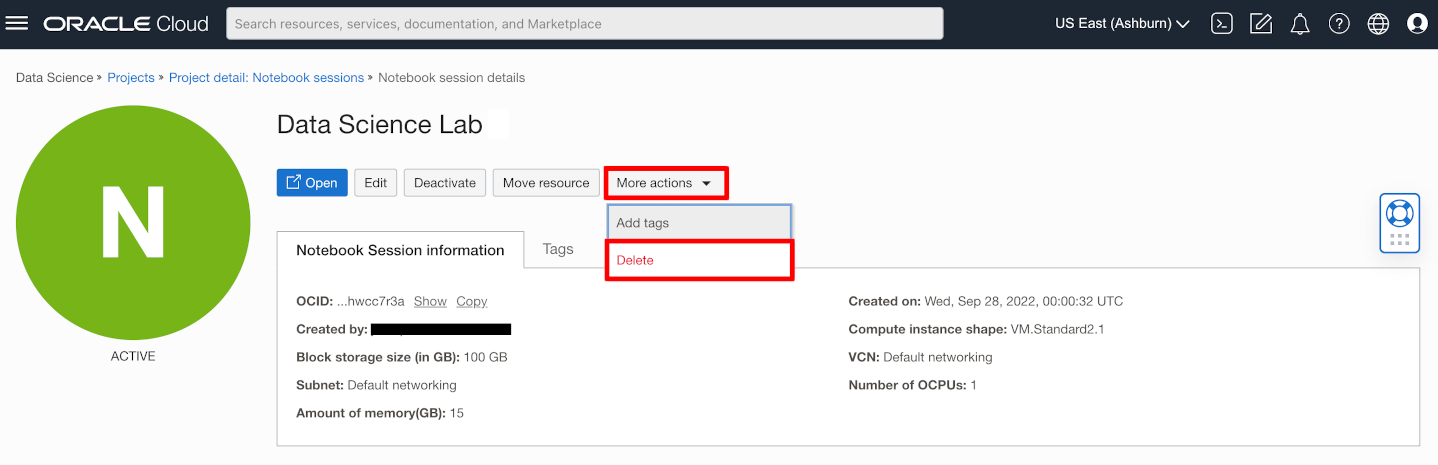
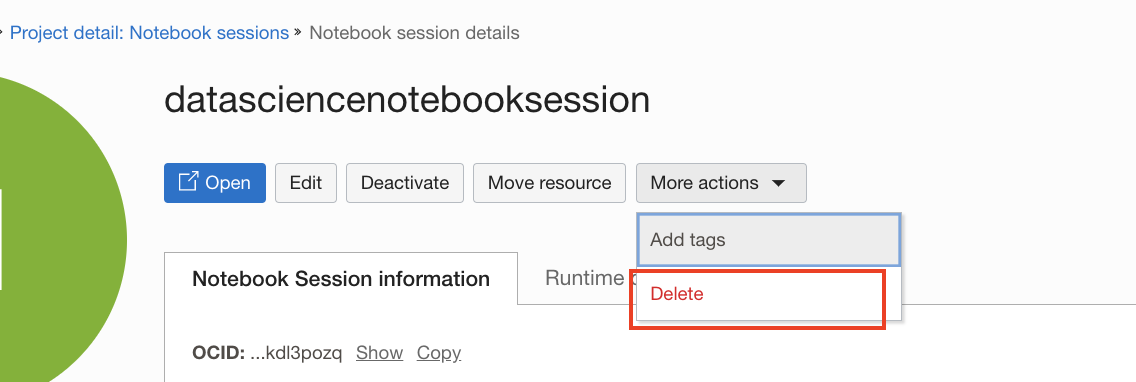
WMS ID#11267 - Image Classification and Deep Learning with OCI Data Science  (#54)
* Update images in common folder

* Update text in image-classification markdowon

* Fix text in image-classification markdown

* JP changes

* Upadte orm-solution-hub-setup markdown and move project-notebook-setup-free-tier markdown to common folder

* Move project-notebook-setup-image-classification-lab markdown

* Move project-notebook-setup-image-classification-lab markdown

* Remove tags

* Resolve conflict

* Add in changes following self QA

* Fix grammar mistakes

* Add in edits from ES

* Add in CW changes

* Reorganize folder structure

diff --git a/oci-datascience/image-classification/workshops/ocw-22-freetier/index.html b/oci-datascience/image-classification/workshops/ocw-22-freetier/index.html
@@ -1,0 +1,63 @@
+<!DOCTYPE html>
+<html lang="en">
+
+<head>
+    <meta charset="utf-8">
+    <meta http-equiv="X-UA-Compatible" content="IE=edge">
+    <meta name="viewport" content="width=device-width, initial-scale=1">
+    <meta name="description" content="Oracle LiveLabs gives you access to Oracle's products to run a wide variety of labs and workshops; allowing you to experience our best technology, live!">
+    <title>Oracle LiveLabs</title>
+
+    <script src="https://oracle-livelabs.github.io/common/redwood-hol/js/jquery-1.11.0.min.js"></script>
+    <script src="https://oracle-livelabs.github.io/common/redwood-hol/js/jquery-ui-1.10.4.custom.js"></script>
+    <script src="https://oracle-livelabs.github.io/common/redwood-hol/js/main.min.js"></script>
+    
+
+    <link rel="stylesheet" href="https://oracle-livelabs.github.io/common/redwood-hol/css/style.min.css" />
+    <link rel="shortcut icon" href="https://oracle-livelabs.github.io/common/redwood-hol/img/favicon.ico" />
+</head>
+
+<body>
+    <header class="hol-Header" role="banner">
+        <div class="hol-Header-wrap">
+            <div class="hol-Header-logo"><span>Oracle LiveLabs</span></div>
+            <a href="https://developer.oracle.com/livelabs" target="_blank" id="livelabs" title="Oracle LiveLabs"></a>
+            <div class="hol-Header-actions">
+                <button id="openNav" class="hol-Header-button hol-Header-button--menu rightNav" aria-label="Open Menu"
+                    title="Open Menu">
+                    <span class="hol-Header-toggleIcon"></span>
+                </button>
+            </div>
+        </div>
+    </header>
+
+    <div id="container">
+        <div id="leftNav">
+            <div id="toc"></div>
+        </div>
+        <div id="contentBox">
+            <main class="hol-Content" id="module-content"></main>
+        </div>
+    </div>
+
+      <footer class="hol-Footer">
+        <a class="hol-Footer-topLink" href="#top">Return to Top</a>
+        <div id="footer-banner"><div class="footer-row">
+          <div class="footer-content"><ul class="footer-links">
+              <li><a href="https://docs.oracle.com/pls/topic/lookup?ctx=en/legal&id=cpyr" target="_blank" aria-label="Open a new window to Oracle legal notices" data-lbl="copyright">© Oracle</a></li>
+              <li><a href="https://www.oracle.com/corporate/index.html" target="_blank" aria-label="Open a new window to learn more about oracle" data-lbl="about-oracle">About Oracle</a></li>
+              <li><a href="https://www.oracle.com/corporate/contact/" target="_blank" aria-label="Open a new window to contact oracle" data-lbl="contact-us">Contact Us</a></li>
+              <li class="footer-links-break"></li>
+              <li><a href="https://docs.oracle.com/en/browseall.html" target="_blank" aria-label="Open a new window to products a-z" data-lbl="products-a-z">Products A-Z</a></li>
+              <li><a href="https://www.oracle.com/legal/privacy/" target="_blank" aria-label="Open a new window to read more about Oracle terms of use and privacy" data-lbl="terms-of-use-and-privacy">Terms of Use & Privacy</a></li>
+              <li><a href="https://www.oracle.com/legal/privacy/privacy-policy.html#11" target="_blank" aria-label="Open a new window to read more about managing Oracle cookie preferences" data-lbl="cookie-preferences">Cookie Preferences</a></li>
+              <li><a href="https://www.oracle.com/legal/privacy/marketing-cloud-data-cloud-privacy-policy.html#adchoices" target="_blank" aria-label="Open a new window to ad choices" data-lbl="ad-choices">Ad Choices</a></li>
+              <li class="footer-links-break"></li><li class="last"><a href="https://docs.oracle.com/pls/topic/lookup?ctx=en/legal&id=cpyr" target="_blank" aria-label="Open a new window to Oracle legal notices" data-lbl="copyright">© Oracle</a></li>
+            </ul>
+          </div>
+        </div>
+      </div>
+    </footer>
+</body>
+
+</html>

diff --git a/oci-datascience/common/odsc-intro.md b/oci-datascience/common/odsc-intro.md
@@ -7,11 +7,11 @@ Oracle Cloud Infrastructure Data Science is a fully managed and serverless platf
 The Data Science Service:
 * Provides data scientists with a collaborative, project-driven workspace.
 * Enables self-service, serverless access to infrastructure for data science workloads.
-* Includes Python-centric tools, libraries, and packages developed by the open source community and the [Oracle Accelerated Data Science SDK](https://docs.cloud.oracle.com/iaas/tools/ads-sdk/latest/index.html); which supports the end-to-end life cycle of predictive models:
+* Includes Python-centric tools, libraries, and packages developed by the open source community and the [Oracle Accelerated Data Science SDK](https://docs.cloud.oracle.com/iaas/tools/ads-sdk/latest/index.html) which supports the end-to-end life cycle of predictive models:
     * Data acquisition, profiling, preparation, and visualization.
     * Feature engineering.
-    * Model training (including Oracle AutoML).
-    * Model evaluation, explanation, and interpretation (including Oracle MLX).
+    * Model training. 
+    * Model evaluation, explanation, and interpretation. 
     * Model deployment.
 * Integrates with the rest of the Oracle Cloud Infrastructure stack, including Vault, Data Flow, Big Data Service, Autonomous Data Warehouse, Object Storage, and much more.
 * Helps data scientists concentrate on methodology and domain expertise to deliver excellent models to production.
@@ -29,16 +29,16 @@ Review the following concepts and terms to help you get started with the Data Sc
 
 * **Project**: Projects are collaborative workspaces for organizing and documenting Data Science assets, such as notebook sessions and models.
 * **Notebook Session**: Data Science notebook sessions are interactive coding environments for building and training models. Notebook sessions come with many pre-installed open source and Oracle developed machine learning and data science packages.
-* **Accelerated Data Science SDK**: The Oracle Accelerated Data Science (ADS) SDK is a Python library that is included as part of the Oracle Cloud Infrastructure Data Science service. ADS has many functions and objects that automate or simplify many of the steps in the Data Science workflow, including connecting to data, exploring, and visualizing data, training a model with AutoML, evaluating models, and explaining models. In addition, ADS provides a simple interface to access the Data Science service model catalog and other Oracle Cloud Infrastructure services including Object Storage. To familiarize yourself with ADS, see the [Oracle Accelerated Data Science Library documentation](https://docs.cloud.oracle.com/iaas/tools/ads-sdk/latest/index.html).
+* **Accelerated Data Science SDK**: The Oracle Accelerated Data Science (ADS) SDK is a Python library that is included as part of the Oracle Cloud Infrastructure Data Science service. ADS has many functions and objects that automate or simplify many of the steps in the Data Science workflow, including connecting to data, exploring and visualizing data, evaluating and explaining models. In addition, ADS provides a simple interface to access the Data Science service model catalog and other Oracle Cloud Infrastructure services including Object Storage. To familiarize yourself with ADS, see the [Oracle Accelerated Data Science Library documentation](https://docs.cloud.oracle.com/iaas/tools/ads-sdk/latest/index.html).
 * **Model**: Models define a mathematical representation of your data and business processes. 
 * **Model Catalog**: The model catalog is a place to store, track, share, and manage models.
 * **Model Deployment**: This feature allows you to take a model stored in the model catalog and deployed it as an HTTPS REST endpoint for real-time inference use cases.
-* **Jobs**: Jobs give the data scientist the ability to execute batch jobs in either an ad hoc way or via a scheduler outside of the notebook session in a separate VM. Jobs can be used to perform batch inference, model training, feature engineering, and so on. ADS also provides a rich interface to interact with Jobs.
-* **Conda environment**: Condas are collections of specific libraries and other resources that simplify library management. They are used to run notebooks, jobs, and deployed models.
+* **Jobs**: Jobs give the data scientist the ability to execute batch jobs in either an ad hoc way or via a scheduler. Jobs can be used to perform batch inference, model training, feature engineering, and so on. ADS also provides a rich interface to interact with Jobs.
+* **Conda environment**: Condas are collections of specific libraries and other resources that simplify library management. They are used to run notebook sessions, jobs, and deployed models.
 
 
 ## Acknowledgements
 
-* **Author**: [John Peach](https://www.linkedin.com/in/jpeach/), Principal Data Scientist
-* **Last Updated By/Date**: 
-    * [John Peach](https://www.linkedin.com/in/jpeach/), Principal Data Scientist, September 2022
+* **Author**: [Wendy Yip](https://www.linkedin.com/in/wendy-yip-a3990610/), Data Scientist
+* **Last Updated By/Date**:
+    * [Wendy Yip](https://www.linkedin.com/in/wendy-yip-a3990610/), Data Scientist, Sept 2022

diff --git a/oci-datascience/common/orm-solution-hub-setup.md b/oci-datascience/common/orm-solution-hub-setup.md
@@ -2,9 +2,9 @@
 
 ## Introduction
 
-To use the Oracle Cloud Infrastructure (OCI) Data Science service, your tenancy has to be configured to grant permission to users and resources. If your tenancy is not configured, you will need administrator permissions to configure it. If you created a free tier account, your account has administrator permissions . There are two ways to configure the tenancy. It can be [manually configured](https://docs.cloud.oracle.com/en-us/iaas/data-science/using/configure-tenancy.htm) or configured via the [Oracle Resource Manager](https://www.oracle.com/cloud/systems-management/resource-manager/). In this lab, your tenancy is configured using the [Data Science Solution Hub](https://docs.cloud.oracle.com/en-us/iaas/data-science/using/orm-configure-tenancy.htm), which is part of the Oracle Resource Manager. The Oracle Resource Manager provides an interface that assists in creating customized stacks that configure a tenancy to work with the Data Science service.
+To use the Oracle Cloud Infrastructure (OCI) Data Science service, your tenancy has to be configured to grant permission to users and resources. If your tenancy is not configured, you will need administrator permissions to configure it. If you created a free tier account, your account has administrator permissions . There are two ways to configure the tenancy. It can be [manually configured](https://docs.oracle.com/en-us/iaas/data-science/data-science-tutorial/get-started.htm#get-started) or configured via the [Oracle Resource Manager](https://www.oracle.com/cloud/systems-management/resource-manager/). In this lab, your tenancy is configured using the [Data Science Solution Hub](https://docs.cloud.oracle.com/en-us/iaas/data-science/using/orm-configure-tenancy.htm), which is part of the Oracle Resource Manager. The Oracle Resource Manager provides an interface that assists in creating customized stacks that configure a tenancy to work with the Data Science service.
 
-The instructions below allow you to set up a basic configuration to work with the Data Science service. We recommend this path for free tier accounts and other tenancies that have a standard configuration. For more elaborate tenancy configurations, you can [manually configure the resources](https://docs.cloud.oracle.com/en-us/iaas/data-science/using/configure-tenancy.htm).
+The instructions below allow you to set up a basic configuration to work with the Data Science service. We recommend this path for free tier accounts and other tenancies that have a standard configuration. For more elaborate tenancy configurations, you can [manually configure the resources](https://docs.oracle.com/en-us/iaas/data-science/data-science-tutorial/get-started.htm#get-started).
 
 By default, a tenancy is not configured to work with the Data Science service. If the tenancy is already configured to work with the service, then you can skip the following setup instructions and move to the next lab. If you do not know if your account is configured for the service or not, ask your system administrator.
 
@@ -12,7 +12,7 @@ By default, a tenancy is not configured to work with the Data Science service. I
 
 ### Objectives
 
-In this lab, you:
+In this lab, you will:
 * Use the Oracle Resource Manager Solution Hub to create a stack
 * Become familiar with the options available to configure a tenancy to work with the Data Science service.
 * Apply a stack to create the policies, groups, dynamic groups and other resources need to access the Data Science service.
@@ -52,7 +52,7 @@ Select **Enable Vault Support?** to enable storing secrets, encrypted passwords,
 
 
 1. Click **Next** and review the stack configuration.
-1. Click **Create** to create your stack. This creates the stack, but does not create any Data Science resources. The **Stack Details** page appears.
+1. Click **Create** to create your stack. This creates the stack but does not create any Data Science resources. The **Stack Details** page appears.
     ![Stack details](./../common/images/orm-stack-detail.png)
 
 1. Click **Terraform Actions**, and then click **Apply** to apply the Terraform script and create the Data Science resources. If the stack generates an error, click **Terraform Actions**, and then click **Destroy** to remove the resources. Fix any issues, and then repeat this step.

diff --git a/oci-datascience/image-classification/project-notebook-setup-image-classification-lab.md b/oci-datascience/image-classification/project-notebook-setup-image-classification-lab.md
@@ -2,19 +2,21 @@
 
 ## Introduction
 
-Projects are used to collect related data science resources and artifacts, such that it enables you to organize your work. They contain a collection of notebook sessions and models.  Data Science notebook sessions are interactive coding environments for building and training models. Notebook sessions provide access to a JupyterLab serverless environment that is managed by the Data Science service. All notebook sessions run in the Data Science service tenancy.
+Projects are used to organize related data science resources and artifacts, including notebook sessions, models, and model deployments.
 
-A notebook session is associated with a compute instance, VCN, subnet, and block storage. There are two block storage drives that are associated with a notebook session. There is a boot volume that is initialized each time the notebook session is activated. Any data on the boot volume is lost when the notebook session is deactivated or terminated. There is an additional block storage that is persisted when a notebook session is deactivated, but it is not persisted when a notebook session is terminated. This block volume is mounted in the ``/home/datascience`` directory and it is where the JupyterLab notebooks, data files, installed custom software, and other files should be stored.
+Data Science notebook sessions are interactive coding environments for building and training models. Notebook sessions provide access to a JupyterLab serverless environment that is managed by the Data Science service. 
 
-When a notebook session is activated or created, the compute instance shape, block storage, VCN, and subnet are configured. These resources can only be changed by deactivating a notebook session, and then changing the configuration while activating the notebook session again. The size of the block storage can only be increased.
+All notebook sessions run in the Data Science service tenancy.  A notebook session is associated with a compute instance, VCN, subnet, and block storage.  When a notebook session is activated or created, the compute instance shape, block storage, VCN, and subnet are configured. These resources can only be changed by deactivating a notebook session and then changing the configuration while activating the notebook session again. 
+
+There is a block storage that is persisted when a notebook session is deactivated, but it is not persisted when a notebook session is terminated. This block volume is mounted in the ``/home/datascience directory``, and it is where the JupyterLab notebooks, data files, installed custom software, and other files should be stored. When updating the configuration during deactivation/reactivation, the size of the block storage can only be increased. There is additionally a boot volume that is initialized each time the notebook session is activated. Any data on the boot volume is lost when the notebook session is deactivated or terminated.
 
 *Estimated Time*: 15 minutes
 
 ### Objective
 
 In this lab, you will:
-* Use the Console to create a Data Science Project.
-* Use the Console to create a Data Science notebook
+* Use the Console to create a Data Science project.
+* Use the Console to create a Data Science notebook session.
 
 ### Prerequisites
 
@@ -24,7 +26,7 @@ In this lab, you will:
 
 ## Task 1: Creating a Project
 
-You can create a Data Science project to organize your notebook sessions and models within your project.
+You can create a Data Science project to organize your work.
 
 1. [Login to the OCI Console](https://www.oracle.com/cloud/sign-in.html).
 1. Open the navigation menu.

diff --git a/oci-datascience/common/notebook-shutdown.md b/oci-datascience/common/notebook-shutdown.md
@@ -2,7 +2,7 @@
 
 ## Introduction
 
-When a notebook session is in an active state, there is a boot volume, block storage, and compute attached to it. When the notebook is not being used, it is possible to detach the computing resource and thus reduce costs. There are two methods for shutting down a notebook session. If a notebook session is deactivated, then the underlying computing resource is shut down and the boot volume and block storage are detached. However, the block storage, which is mounted at ``/home/datascience``, is persisted for later use. The boot volume is *not* persisted. Deactivated notebooks can be activated again and the block volume is automatically reattached. During activation, you can change the compute shape, increase the size of the block volume, change the VCN, and the subnet.
+When a notebook session is in an active state, there is a boot volume, block storage, and compute attached to it. When the notebook is not being used, it is possible to detach the computing resource and thus reduce costs. There are two methods for shutting down a notebook session. If a notebook session is deactivated, then the underlying computing resource is shut down and the boot volume and block storage are detached. However, the block storage, which is mounted at ``/home/datascience``, is persisted for later use. The boot volume is *not* persisted. Deactivated notebook sessions can be activated again and the block volume is automatically reattached. During activation, you can change the compute shape, increase the size of the block volume, and change the VCN and subnet.
 
 If the notebook session and its block storage are no longer needed, then the notebook session can be terminated. Terminating a notebook session releases the underlying compute, boot volume and block storage. Since the boot volume and block storage are not persisted, any data on these volumes will be lost. It is not possible to reactivate a terminated notebook session.
 
@@ -10,7 +10,7 @@ If the notebook session and its block storage are no longer needed, then the not
 
 ### Objectives
 
-In this lab, you:
+In this lab, you will:
 * Learn the different methods of shutting down a notebook session.
 * Understand the differences between deactivating and terminating a notebook session.
 * Become familiar with the steps needed to deactivate and terminate notebook sessions.
@@ -55,12 +55,12 @@ To keep the file changes in a notebook session’s boot volume and attached bloc
 1. Click **More Actions**, then click **Delete**.
     ![Terminate button](./../common/images/terminate-notebook-session.png)
 
-1. Click **Terminate** to confirm the termination. The status changes to **Deleting** and then **Deleted**.
+1. Type in the name of the notebook to confirm the termination. The status changes to **Deleting** and then **Deleted**.
 
     ![Click terminate](./../common/images/terminate-notebook-session-confirmation.png)
 
 ## Acknowledgements
 
-* **Author**: [John Peach](https://www.linkedin.com/in/jpeach/), Principal Data Scientist
+* **Author**: [Wendy Yip](https://www.linkedin.com/in/wendy-yip-a3990610/), Data Scientist
 * **Last Updated By/Date**:
-    * [John Peach](https://www.linkedin.com/in/jpeach/), Principal Data Scientist, September 2022
+    * [Wendy Yip](https://www.linkedin.com/in/wendy-yip-a3990610/), Data Scientist, Sept 2022

diff --git a/oci-datascience/image-classification/image-classification.md b/oci-datascience/image-classification/image-classification.md
@@ -2,9 +2,9 @@
 
 ## Introduction
 
-Image classification with a machine learning model is the task of training a model with a set of images labeled in different classes and using the model to predict the label of an image the model has not encountered before.  It has many broad applications ranging from quality control for manufacturing to crop monitoring for precision agriculture. An important application is using machien learning models to classify medical images for disease diagnosis.  
+Image classification with a machine learning model is the task of training a model with a set of images labeled in different classes and using the model to predict the label of an image the model has not encountered before.  It has many broad applications ranging from quality control for manufacturing to crop monitoring for precision agriculture. An important application is using machine learning models to classify medical images for disease diagnosis.  
 
-In this lab, you’ll learn how to create your own deep learning model to diagnose pneumonia on chest x-ray images of patients. You’ll use Data Science Notebook Sessions to train a custom deep learning model and also use transfer learning to tune a pre-trained model on the x-ray images. You will learn how to deploy your model for consumption by third-party applications.
+In this lab, you’ll learn how to create your own deep learning model to diagnose pneumonia on chest x-ray images of patients. You’ll use Data Science notebook sessions to train a custom deep learning model and also use transfer learning to tune a pre-trained model on the x-ray images. You will learn how to deploy your model for consumption by third-party applications.
 
 *Estimated Time*: 60 minutes
 
@@ -16,8 +16,8 @@ In this lab, you will:
 * Perform data exploration with Accelerated Data Science (ADS) SDK.
 * Define a custom deep learning model and train the model.
 * Apply transfer learning on a pre-trained model.
-* Save a model to the Data Science Model Catalog.
-* Deploy a model with Data Science Model Deployment.
+* Save a model to the Data Science model catalog.
+* Deploy a model with Data Science model deployment.
 
 ### Prerequisites
 
@@ -56,21 +56,21 @@ This lab assumes that you have:
     ```
 2.  Navigate to the **xray\_diagnostics\_hol** folder
 
-Go to the home directory
+* Go to the home directory
 
 ![Navigate to home directory](images/navigate-home-directory.png " ")
 
-Click on the **conda** folder
+* Click on the **conda** folder
 
-Click on the **notebooks** folder
+* Click on the **notebooks** folder
 
-Click on the **tensorflow\_27\_p37\_cpu\_v1** folder
+* Click on the **tensorflow\_27\_p37\_cpu\_v1** folder
 
-Click on the **demo** folder
+* Click on the **demo** folder
 
-Click on the **xray\_diagnostics\_hol** folder
+* Click on the **xray\_diagnostics\_hol** folder
 
-Open **ChestXrays\_Train.ipynb** file 
+* Open **ChestXrays\_Train.ipynb** file 
 
 This is the notebook where we will work through an image classification problem.  
 
